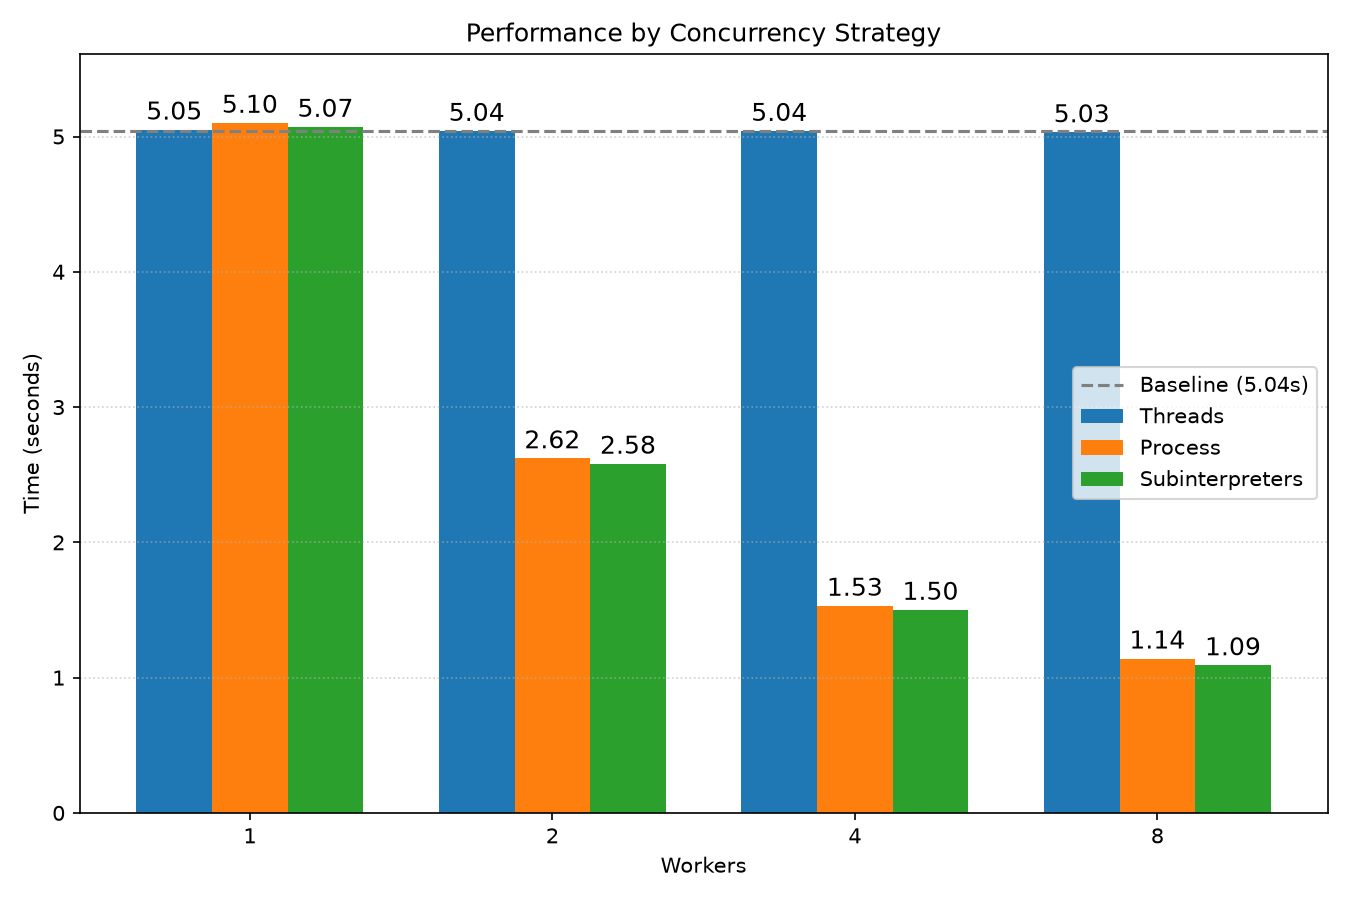
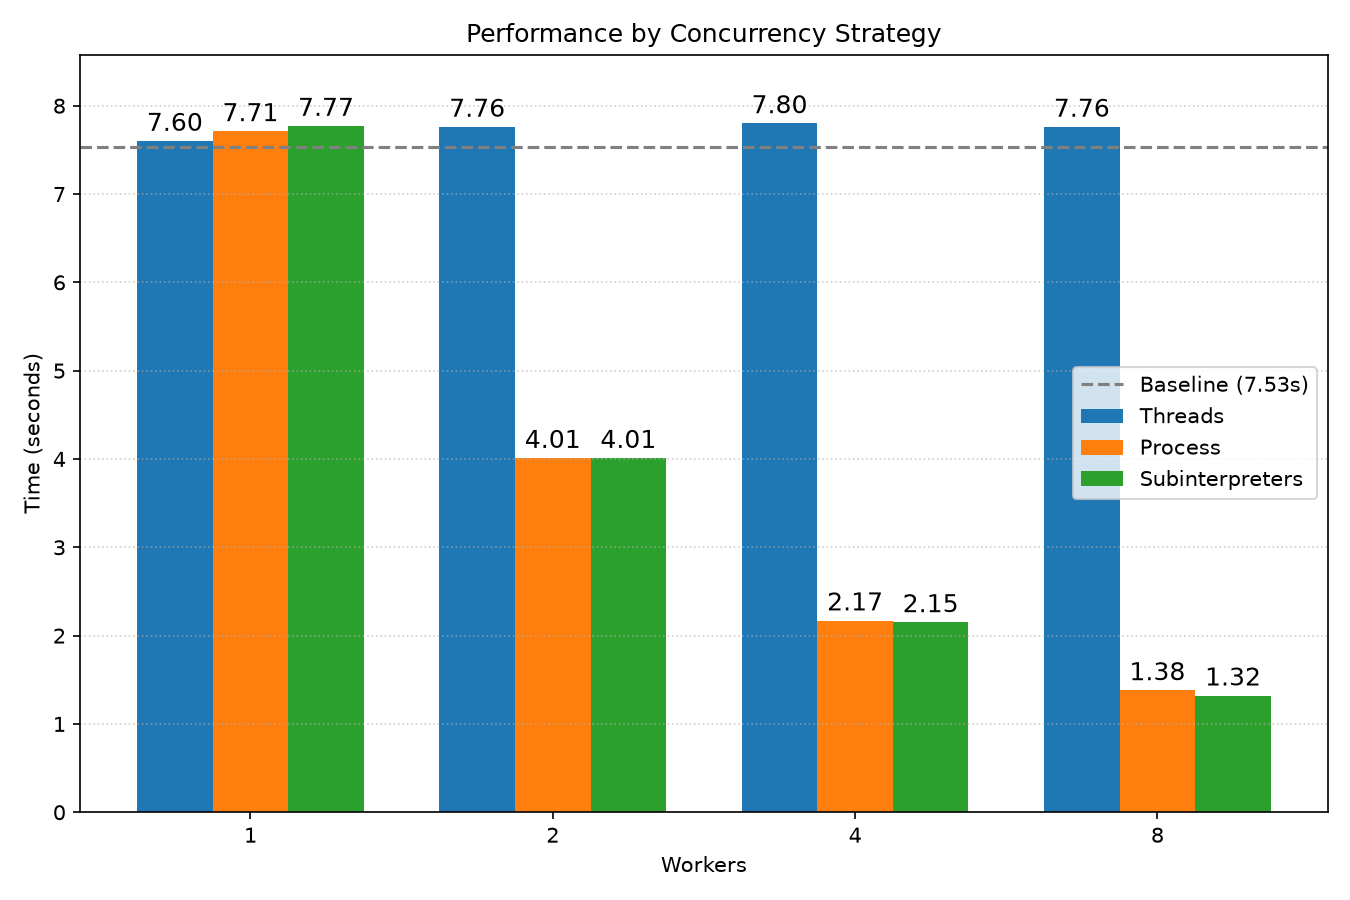
Rename examples and update data

diff --git a/01_subinterpreters_gil/demo/06_baseline.py b/01_subinterpreters_gil/demo/06_baseline.py
@@ -2,14 +2,12 @@ import math
 import sys
 import time
 
-from concurrent.futures import InterpreterPoolExecutor
-
 NUMBERS = [
     112272535095293,
     112582705942171,
     112272535095293,
     115280095190773,
-    115797848077099
+    115797848077099,
 ] * 10
 
 
@@ -29,12 +27,7 @@ def is_prime(n):
 
 
 if __name__ == "__main__":
-    print(sys.version)
     start = time.time()
-
-    workers = int(sys.argv[1]) if len(sys.argv) > 1 else 4
-
-    with InterpreterPoolExecutor(max_workers=workers) as executor:
-        executor.map(is_prime, NUMBERS)
-
-    print(f"{workers} workers took {time.time() - start:.2f} seconds")
+    for number in NUMBERS:
+        is_prime(number)
+    print(f"Single CPU took {time.time() - start:.2f} seconds")

diff --git a/01_subinterpreters_gil/demo/09_multiinterpreter.py b/01_subinterpreters_gil/demo/09_multiinterpreter.py
@@ -1,15 +1,14 @@
 import math
 import sys
 import time
-
-from concurrent.futures import ProcessPoolExecutor
+from concurrent.futures import InterpreterPoolExecutor
 
 NUMBERS = [
     112272535095293,
     112582705942171,
     112272535095293,
     115280095190773,
-    115797848077099
+    115797848077099,
 ] * 10
 
 
@@ -29,12 +28,11 @@ def is_prime(n):
 
 
 if __name__ == "__main__":
-    print(sys.version)
     start = time.time()
 
     workers = int(sys.argv[1]) if len(sys.argv) > 1 else 4
 
-    with ProcessPoolExecutor(max_workers=workers) as executor:
+    with InterpreterPoolExecutor(max_workers=workers) as executor:
         executor.map(is_prime, NUMBERS)
 
     print(f"{workers} workers took {time.time() - start:.2f} seconds")

diff --git a/01_subinterpreters_gil/demo/08_multithread.py b/01_subinterpreters_gil/demo/08_multithread.py
@@ -1,14 +1,14 @@
 import math
 import sys
 import time
-
+from concurrent.futures import ThreadPoolExecutor
 
 NUMBERS = [
     112272535095293,
     112582705942171,
     112272535095293,
     115280095190773,
-    115797848077099
+    115797848077099,
 ] * 10
 
 
@@ -28,8 +28,11 @@ def is_prime(n):
 
 
 if __name__ == "__main__":
-    print(sys.version)
     start = time.time()
-    for number in NUMBERS:
-        is_prime(number)
-    print(f"Single CPU took {time.time() - start:.2f} seconds")
+
+    workers = int(sys.argv[1]) if len(sys.argv) > 1 else 4
+
+    with ThreadPoolExecutor(max_workers=workers) as executor:
+        executor.map(is_prime, NUMBERS)
+
+    print(f"{workers} workers took {time.time() - start:.2f} seconds")

diff --git a/01_subinterpreters_gil/demo/07_multiprocess.py b/01_subinterpreters_gil/demo/07_multiprocess.py
@@ -1,15 +1,14 @@
 import math
 import sys
 import time
-
-from concurrent.futures import ThreadPoolExecutor
+from concurrent.futures import ProcessPoolExecutor
 
 NUMBERS = [
     112272535095293,
     112582705942171,
     112272535095293,
     115280095190773,
-    115797848077099
+    115797848077099,
 ] * 10
 
 
@@ -29,12 +28,11 @@ def is_prime(n):
 
 
 if __name__ == "__main__":
-    print(sys.version)
     start = time.time()
 
     workers = int(sys.argv[1]) if len(sys.argv) > 1 else 4
 
-    with ThreadPoolExecutor(max_workers=workers) as executor:
+    with ProcessPoolExecutor(max_workers=workers) as executor:
         executor.map(is_prime, NUMBERS)
 
     print(f"{workers} workers took {time.time() - start:.2f} seconds")

diff --git a/01_subinterpreters_gil/slides/assets/processes_runtime.py b/01_subinterpreters_gil/slides/assets/processes_runtime.py
@@ -1,7 +1,7 @@
 import matplotlib.pyplot as plt
 
 labels = ["1 process", "2 processes", "4 processes", "8 processes"]
-values = [5.10, 2.62, 1.53, 1.14]
+values = [7.71, 4.01, 2.17, 1.38]
 color = "#1f77b4"
 
 fig, ax = plt.subplots(figsize=(9, 6))
@@ -10,7 +10,7 @@ bars = ax.bar(labels, values, color=color)
 ax.bar_label(bars, fmt="%.2f", padding=3, fontsize=12)
 
 ax.set_title("Runtime (in seconds)")
-ax.set_ylim(0, 6)
+ax.set_ylim(0, 9)
 ax.grid(True, axis="y", linestyle=":", alpha=0.6)
 
 fig.tight_layout()

diff --git a/01_subinterpreters_gil/slides/assets/threads_runtime.py b/01_subinterpreters_gil/slides/assets/threads_runtime.py
@@ -1,7 +1,7 @@
 import matplotlib.pyplot as plt
 
 labels = ["1 thread", "2 threads", "4 threads", "8 threads"]
-values = [5.05, 5.04, 5.04, 5.03]
+values = [7.60, 7.76, 7.8, 7.76]
 color = "#1f77b4"
 
 fig, ax = plt.subplots(figsize=(9, 6))
@@ -10,7 +10,7 @@ bars = ax.bar(labels, values, color=color)
 ax.bar_label(bars, fmt="%.2f", padding=3, fontsize=12)
 
 ax.set_title("Runtime (in seconds)")
-ax.set_ylim(0, 6)
+ax.set_ylim(0, 9)
 ax.grid(True, axis="y", linestyle=":", alpha=0.6)
 
 fig.tight_layout()

diff --git a/01_subinterpreters_gil/slides/assets/performance_2.py b/01_subinterpreters_gil/slides/assets/performance_2.py
@@ -2,10 +2,10 @@ import matplotlib.pyplot as plt
 import numpy as np
 
 workers = [1, 2, 4, 8]
-threads = [5.05, 5.04, 5.04, 5.03]
-process = [5.10, 2.62, 1.53, 1.14]
-subinterpreters = [5.07, 2.58, 1.50, 1.09]
-baseline = 5.04
+threads = [7.60, 7.76, 7.8, 7.76]
+process = [7.71, 4.01, 2.17, 1.38]
+subinterpreters = [7.77, 4.01, 2.15, 1.32]
+baseline = 7.53
 
 x = np.arange(len(workers))
 width = 0.25

diff --git a/01_subinterpreters_gil/slides/assets/benchmark_process.py b/01_subinterpreters_gil/slides/assets/benchmark_process.py
@@ -2,10 +2,10 @@ import matplotlib.pyplot as plt
 import numpy as np
 
 workers = [1, 2, 4, 8]
-baseline = 5.04
+baseline = 7.53
 
-gil = [5.10, 2.62, 1.53, 1.14]
-no_gil = [4.92, 2.74, 1.72, 1.33]
+gil = [7.71, 4.01, 2.17, 1.38]
+no_gil = [7.71, 4.13, 2.19, 1.44]
 
 x = np.arange(len(workers))
 width = 0.35

diff --git a/01_subinterpreters_gil/slides/assets/benchmark_subinterpreters.py b/01_subinterpreters_gil/slides/assets/benchmark_subinterpreters.py
@@ -2,10 +2,10 @@ import matplotlib.pyplot as plt
 import numpy as np
 
 workers = [1, 2, 4, 8]
-baseline = 5.04
+baseline = 7.53
 
-gil = [5.07, 2.58, 1.50, 1.09]
-no_gil = [5.05, 2.79, 1.76, 1.36]
+gil = [7.77, 4.01, 2.15, 1.32]
+no_gil = [7.84, 4.09, 2.25, 1.67]
 
 x = np.arange(len(workers))
 width = 0.35

diff --git a/01_subinterpreters_gil/slides/assets/benchmark_threads.py b/01_subinterpreters_gil/slides/assets/benchmark_threads.py
@@ -4,8 +4,8 @@ import numpy as np
 workers = [1, 2, 4, 8]
 baseline = 5.04
 
-gil = [5.05, 5.04, 5.04, 5.03]
-no_gil = [4.91, 2.69, 1.66, 1.55]
+gil = [7.60, 7.76, 7.8, 7.76]
+no_gil = [7.64, 4.08, 2.27, 1.48]
 
 x = np.arange(len(workers))
 width = 0.35

diff --git a/01_subinterpreters_gil/demo/04_numpy_fail.py b/01_subinterpreters_gil/demo/04_numpy_fail.py
@@ -1,8 +1,11 @@
-import numpy as np
 from concurrent.futures import InterpreterPoolExecutor
+
+import numpy as np
+
 
 def compute_mean(arr):
     return arr.mean()
+
 
 data = np.random.rand(1_000_000)
 
